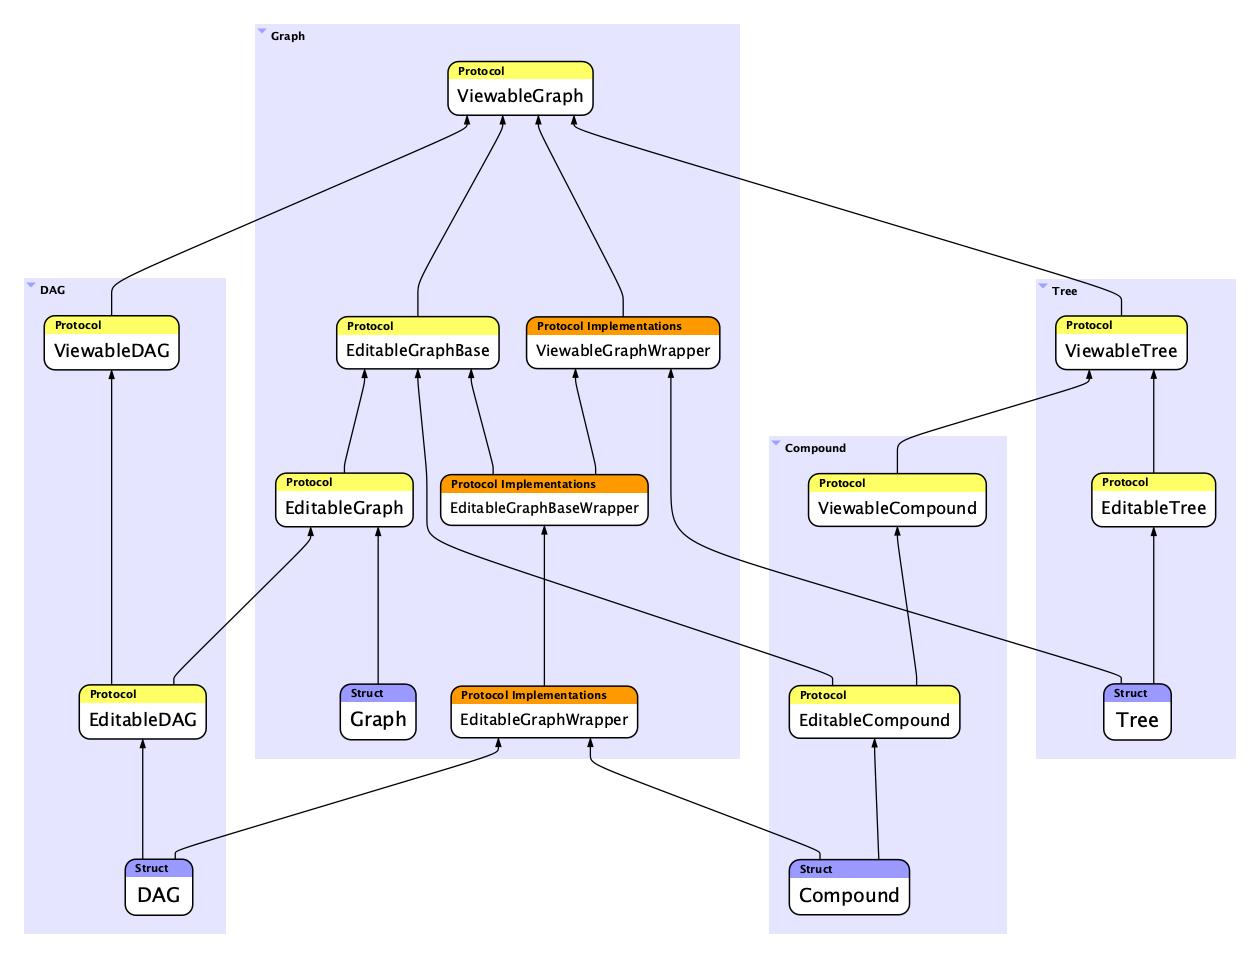
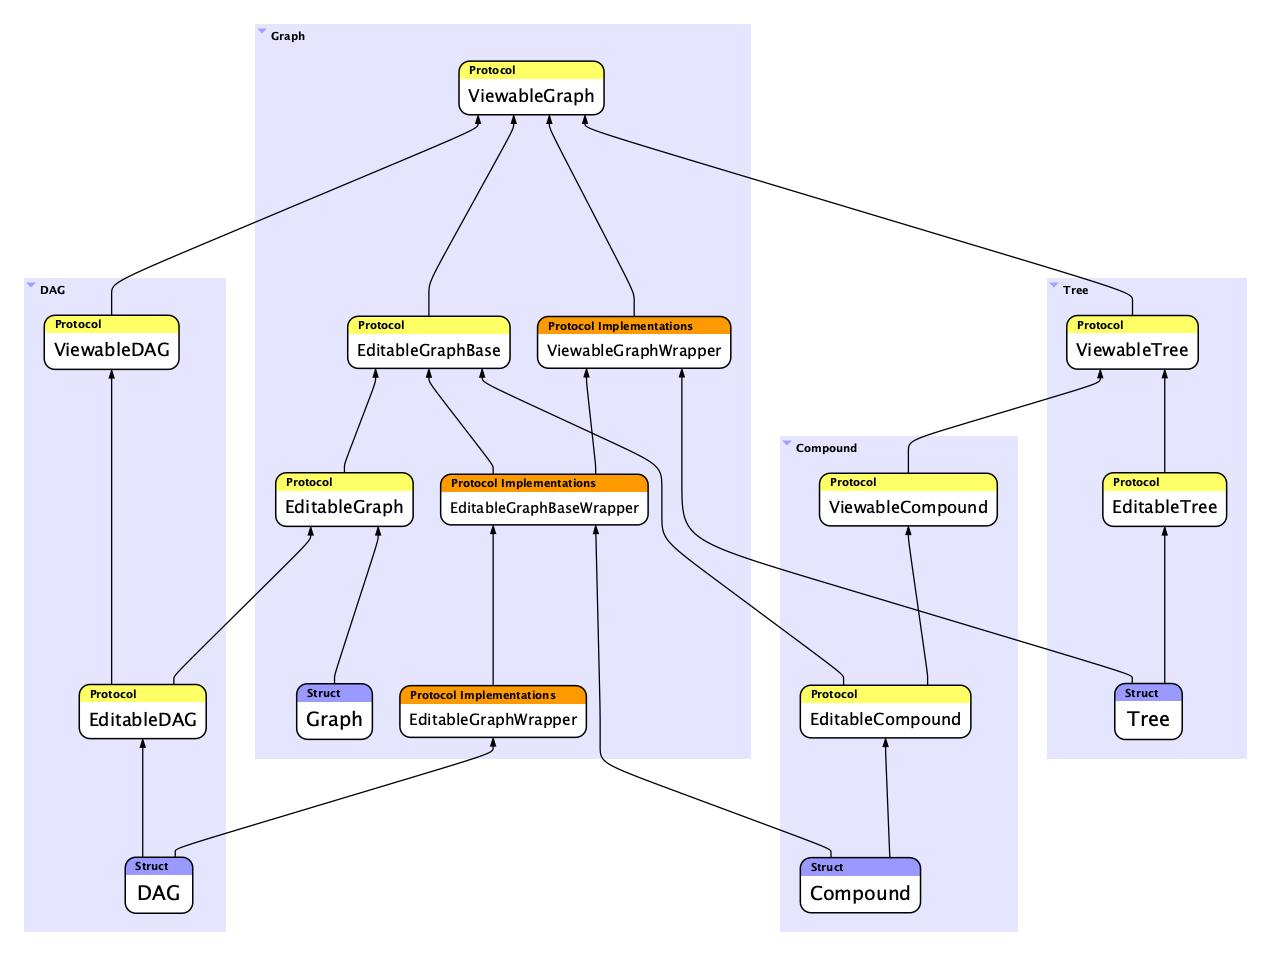
Fix inheritance issue with Compound.

diff --git a/Sources/WolfGraph/Compound/Compound.swift b/Sources/WolfGraph/Compound/Compound.swift
@@ -9,7 +9,7 @@ import Foundation
 // node.
 //
 
-public struct Compound<InnerGraph, InnerTree>: EditableCompound, EditableGraphWrapper
+public struct Compound<InnerGraph, InnerTree>: EditableCompound, EditableGraphBaseWrapper
 where InnerGraph: EditableGraph,
       InnerTree: EditableTree,
       InnerGraph.NodeID == InnerTree.NodeID,
